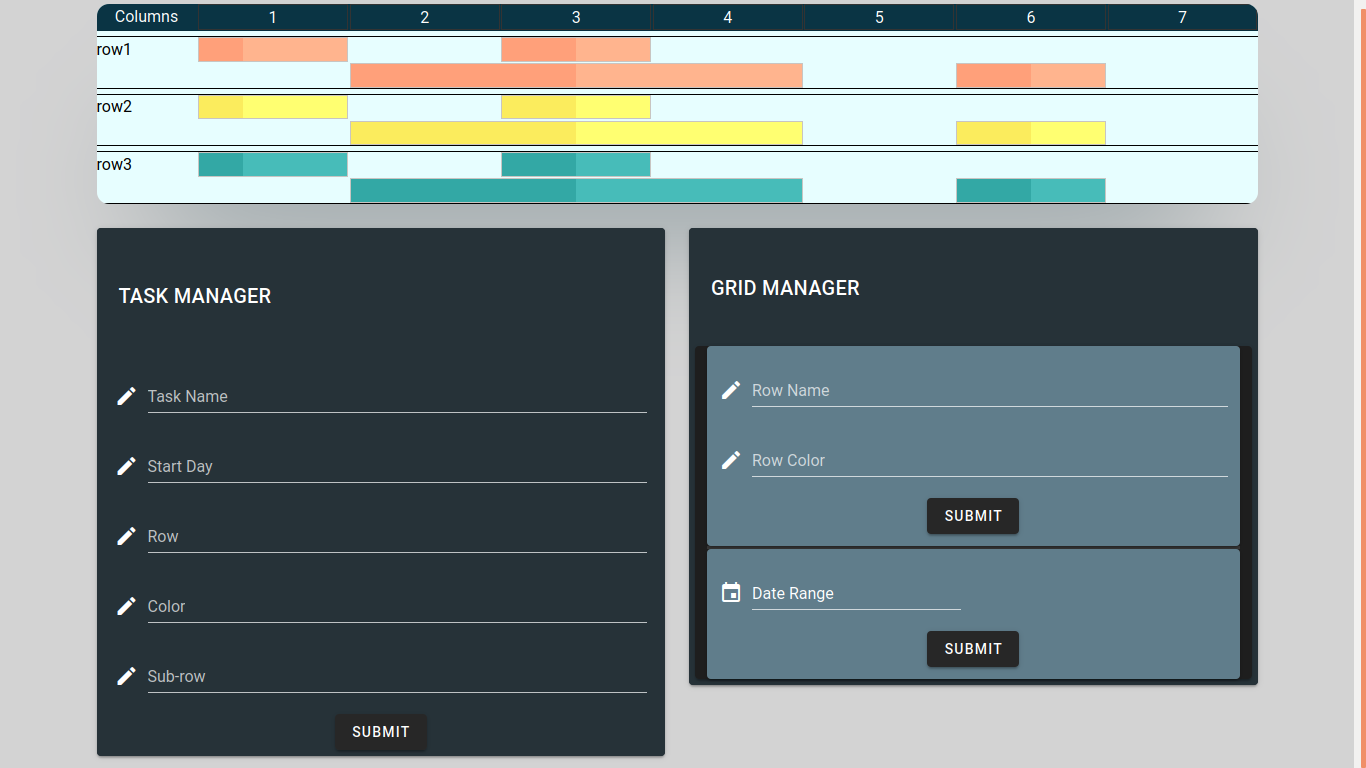
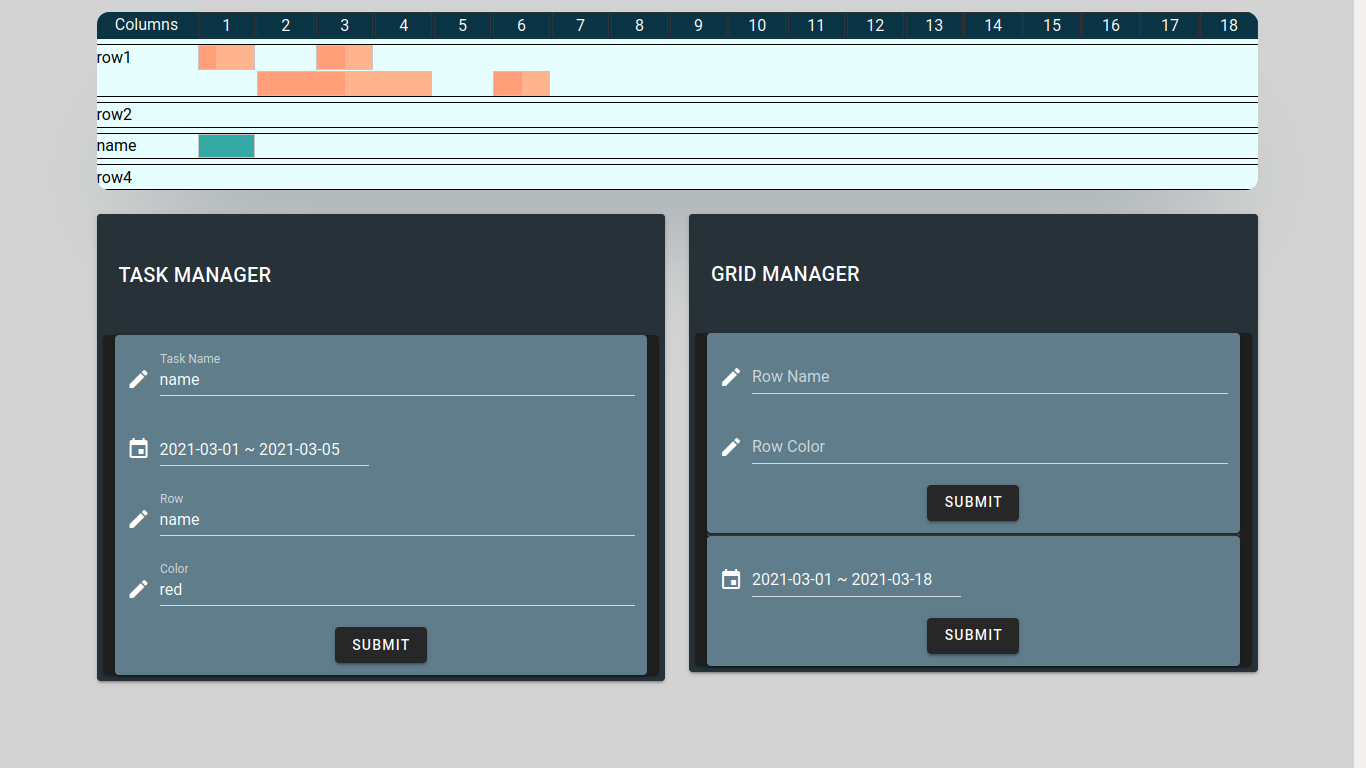
Modified TaskManager component     * Added select-row functionality by clciking on a row     * Only after you select a row the TaskManager submit button will be enabled     * Changed the look and feel of TaskManager     * Added date-range support to provide the new task's start-end Issues to be fixe

diff --git a/components/TaskManager.vue b/components/TaskManager.vue
@@ -9,42 +9,31 @@
     >
       TASK MANAGER
     </v-card-title>
-    <v-form class="px-3" ref="form" style="grid-row: 2/5; grid-column: 1/3;">
-      <v-text-field
-        text-color="black"
-        label="Task Name"
-        v-model="name"
-        prepend-icon="mdi-pencil"
-        style="caret-color: black;"
-      ></v-text-field>
-      <v-text-field
-        label="Start Day"
-        v-model="start"
-        prepend-icon="mdi-pencil"
-      ></v-text-field>
-      <v-text-field
-        v-if="false"
-        label="Task End"
-        v-model="end"
-        prepend-icon="mdi-pencil"
-      ></v-text-field>
-      <v-text-field
-        label="Row"
-        v-model="row"
-        prepend-icon="mdi-pencil"
-      ></v-text-field>
-      <v-text-field
-        label="Color"
-        v-model="color"
-        prepend-icon="mdi-pencil"
-      ></v-text-field>
-      <v-text-field
-        label="Sub-row"
-        v-model="subRow"
-        prepend-icon="mdi-pencil"
-      ></v-text-field>
-      <v-btn @click="emitNode"> Submit</v-btn>
-    </v-form>
+    <v-card class="px-3" ref="form" style="grid-row: 2/5; grid-column: 1/3;">
+      <v-card color="#607D8B">
+        <v-col>
+          <v-text-field
+            text-color="black"
+            label="Task Name"
+            v-model="name"
+            prepend-icon="mdi-pencil"
+            style="caret-color: black;"
+          ></v-text-field>
+          <DateRangePicker @emitDateRange="acceptDateRange" />
+          <v-text-field
+            label="Row"
+            v-model="rowName"
+            prepend-icon="mdi-pencil"
+          ></v-text-field>
+          <v-text-field
+            label="Color"
+            v-model="color"
+            prepend-icon="mdi-pencil"
+          ></v-text-field>
+          <v-btn @click="emitNode" :disabled="submitDisabled"> Submit</v-btn>
+        </v-col>
+      </v-card>
+    </v-card>
   </v-card>
 </template>
 
@@ -63,13 +52,14 @@
 </style>
 
 <script>
+import DateRangePicker from "@/components/DateRangePicker";
 export default {
   data() {
     return {
       title: "",
       name: "",
-      start: "",
-      end: "",
+      startDate: "",
+      endDate: "",
       row: "",
       color: "",
       subRow: "",
@@ -83,12 +73,28 @@ export default {
     emitNode() {
       this.$emit("addNode", {
         name: this.name,
-        start: parseInt(this.start),
-        row: parseInt(this.row),
+        startDate: this.startDate,
+        endDate: this.endDate,
         color: this.color,
-        subRow: parseInt(this.subRow),
         id: this.id++
       });
+    },
+    acceptDateRange(dateRange) {
+      this.startDate = dateRange.startDate;
+      this.endDate = dateRange.endDate;
+    }
+  },
+  props: {
+    selectedRow: {
+      type: Object
+    }
+  },
+  computed: {
+    rowName() {
+      return this.selectedRow != null ? this.selectedRow.name : "";
+    },
+    submitDisabled() {
+      return this.selectedRow == null;
     }
   }
 };

diff --git a/pages/index.vue b/pages/index.vue
@@ -1,18 +1,20 @@
 <template>
-  <!-- <div style="display: grid; grid-template-columns: repeat(2, 1fr);">
-    <Timeline style="grid-column: 1/2"/>
-    <TaskManager style="grid-column: 2/3"/>
-  </div> -->
   <v-container>
     <v-row>
-      <v-col> <Timeline :columnSpan="columnSpan" :rows="rows" @emitDateRange="acceptDateRange"/></v-col>
+      <v-col>
+        <Timeline
+          :columnSpan="columnSpan"
+          :rows="rows"
+          @emitDateRange="acceptDateRange"
+          @emitSelectedRow="acceptSelectedRow"
+      /></v-col>
     </v-row>
     <v-row>
       <v-col>
-        <TaskManager />
+        <TaskManager :selectedRow="selectedRow" @addNode="acceptNode" />
       </v-col>
       <v-col>
-        <GridManager @addRow="acceptRow"  @addColumn="acceptDateRange"/>
+        <GridManager @addRow="acceptRow" @addColumn="acceptDateRange" />
       </v-col>
     </v-row>
   </v-container>
@@ -27,13 +29,29 @@ export default {
   data() {
     return {
       rows: [
-        { name: "row1", color: "#ffa07a" },
-        { name: "row2", color: "#fbec5d" },
-        { name: "row3", color: "#33a8a5" }
+        {
+          name: "row1",
+          color: "#ffa07a",
+          tasks: [
+            { name: "task1", start: 2, end: 3, complete: 0.3 },
+            { name: "task2", start: 4, end: 5, complete: 0.5 },
+            { name: "task3", start: 3, end: 6, complete: 0.5 },
+            { name: "task4", start: 7, end: 8, complete: 0.5 }
+          ]
+        },
+        { name: "row2", color: "#fbec5d", tasks: [] },
+        { name: "row3", color: "#33a8a5", tasks: [] }
+      ],
+      tasks: [
+        { name: "task1", start: 2, end: 3, complete: 0.3 },
+        { name: "task2", start: 4, end: 5, complete: 0.5 },
+        { name: "task3", start: 3, end: 6, complete: 0.5 },
+        { name: "task4", start: 7, end: 8, complete: 0.5 }
       ],
       startDate: "",
       endDate: "",
-      columnSpan: 7
+      columnSpan: 7,
+      selectedRow: null
     };
   },
   components: {
@@ -48,6 +66,15 @@ export default {
       this.startDate = dateRange.startDate;
       this.endDate = dateRange.endDate;
       this.columnSpan = parseInt(dateRange.columnSpan);
+    },
+    acceptSelectedRow(row) {
+      this.selectedRow = row;
+      console.log(row.name);
+    },
+    acceptNode(node) {
+      this.selectedRow.name = "name";
+      this.selectedRow.tasks.push(node);
+      console.log(node.name);
     }
   }
 };

diff --git a/components/Row.vue b/components/Row.vue
@@ -1,17 +1,20 @@
 <template>
-  <div class="row" :style="cssVars">
+  <div class="row" :style="cssVars"
+   >
     <div class="row-label">{{ name }}</div>
-    <Task :name="'task1'" :start="2" :end="3" :color="color" :complete="0.3" />
-    <Task :name="'task2'" :start="4" :end="5" :color="color" :complete="0.5" />
-    <Task :name="'task3'" :start="3" :end="6" :color="color" :complete="0.5" />
-    <Task :name="'task4'" :start="7" :end="8" :color="color" :complete="0.5" />
+    <Task
+      v-for="task in tasks"
+      :key="task.name"
+      :name="task.name"
+      :start="task.start"
+      :end="task.end"
+      :color="color"
+      :complete="task.complete"
+    />
   </div>
 </template>
 
 <style lang="css" scoped>
-/* ul {
-  list-style-type: none;
- } */
 .row {
   display: grid;
   grid-template-columns: 100px repeat(var(--grid-column-span), 1fr);
@@ -20,26 +23,11 @@
   margin: 0px;
   border-top: 1px solid black;
   border-bottom: 1px solid black;
-  /* list-style: none; */
 }
 .row-label {
   grid-column: 1/2;
-  /* border: #333 1px solid; */
-  /* padding: 0em; */
   grid-row: auto;
-  /* padding: 30px 0; */
   margin: 0px;
-
-  /* border-width: 1px 0 0 0;
-  border-color: rgba(0, 0, 0, 0.1);
-  border-style: solid;
-  padding: 15px 0;
-  font-size: 13px;
-  font-weight: bold;
-  text-align: center;
-  background-color: #f5f5f5; */
-  /* column-rule-style: solid;
-  column-rule-color: #ff0000; */
 }
 </style>
 
@@ -56,7 +44,9 @@ export default {
     color: {
       type: String
     },
-    
+    tasks: {
+      type: Array
+    }
   },
   computed: {
     cssVars() {
@@ -65,6 +55,6 @@ export default {
         "--grid-column-span": this.gridColumnSpan
       };
     }
-  }
+  },
 };
 </script>

diff --git a/components/Timeline.vue b/components/Timeline.vue
@@ -1,11 +1,13 @@
 <template>
   <div class="timeline">
     <Header :columnSpan="columnSpan" />
-    <!-- <Row :gridColumnSpan="7" :name="'row1'" :color="'#ffa07a'" />
-    <Row :gridColumnSpan="7" :name="'row2'" :color="'#fbec5d'" />
-    <Row :gridColumnSpan="7" :name="'row3'" :color="'#33a8a5'" /> -->
-    <div v-for="row in rows" :key="row.name">
-        <Row :gridColumnSpan="columnSpan" :name="row.name" :color="row.color" />
+    <div v-for="row in rows" :key="row.name" @click="selectRow(row)">
+      <Row
+        :gridColumnSpan="columnSpan"
+        :name="row.name"
+        :color="row.color"
+        :tasks="row.tasks"
+      />
     </div>
   </div>
 </template>
@@ -31,20 +33,29 @@
 import Header from "@/components/Header";
 import Row from "@/components/Row";
 export default {
-    props: {
-        rows: {
-            type: Array,
-            required: true
-        },
-        startDate: {
-            type: String
-        },
-        endDate: {
-            type: String
-        },
-        columnSpan: {
-            type: Number
-        }
+  props: {
+    rows: {
+      type: Array,
+      required: true
     },
+    startDate: {
+      type: String
+    },
+    endDate: {
+      type: String
+    },
+    columnSpan: {
+      type: Number
+    }
+  },
+  methods: {
+    selectRow(row) {
+      this.$emit("emitSelectedRow", row);
+      console.log(row);
+    },
+    acceptSelectedRow(row) {
+      this.selectRow(row);
+    }
+  }
 };
 </script>

diff --git a/components/Task.vue b/components/Task.vue
@@ -1,5 +1,4 @@
 <template>
-  <!-- <label> -->
   <div
     class="task"
     :style="cssVars"
